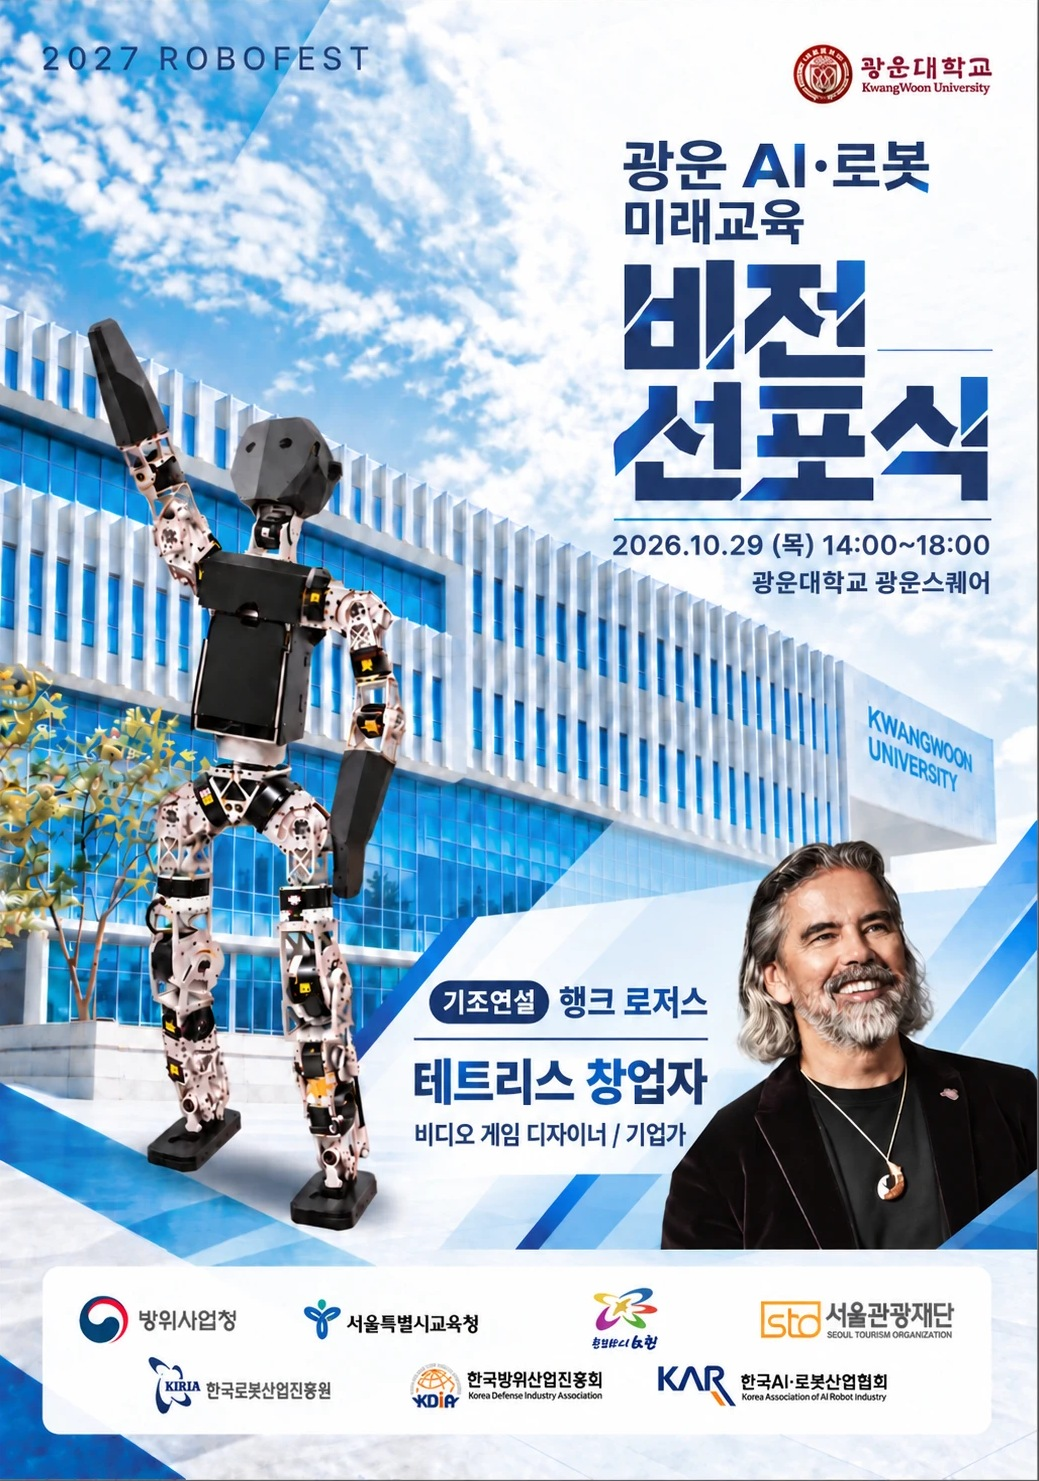
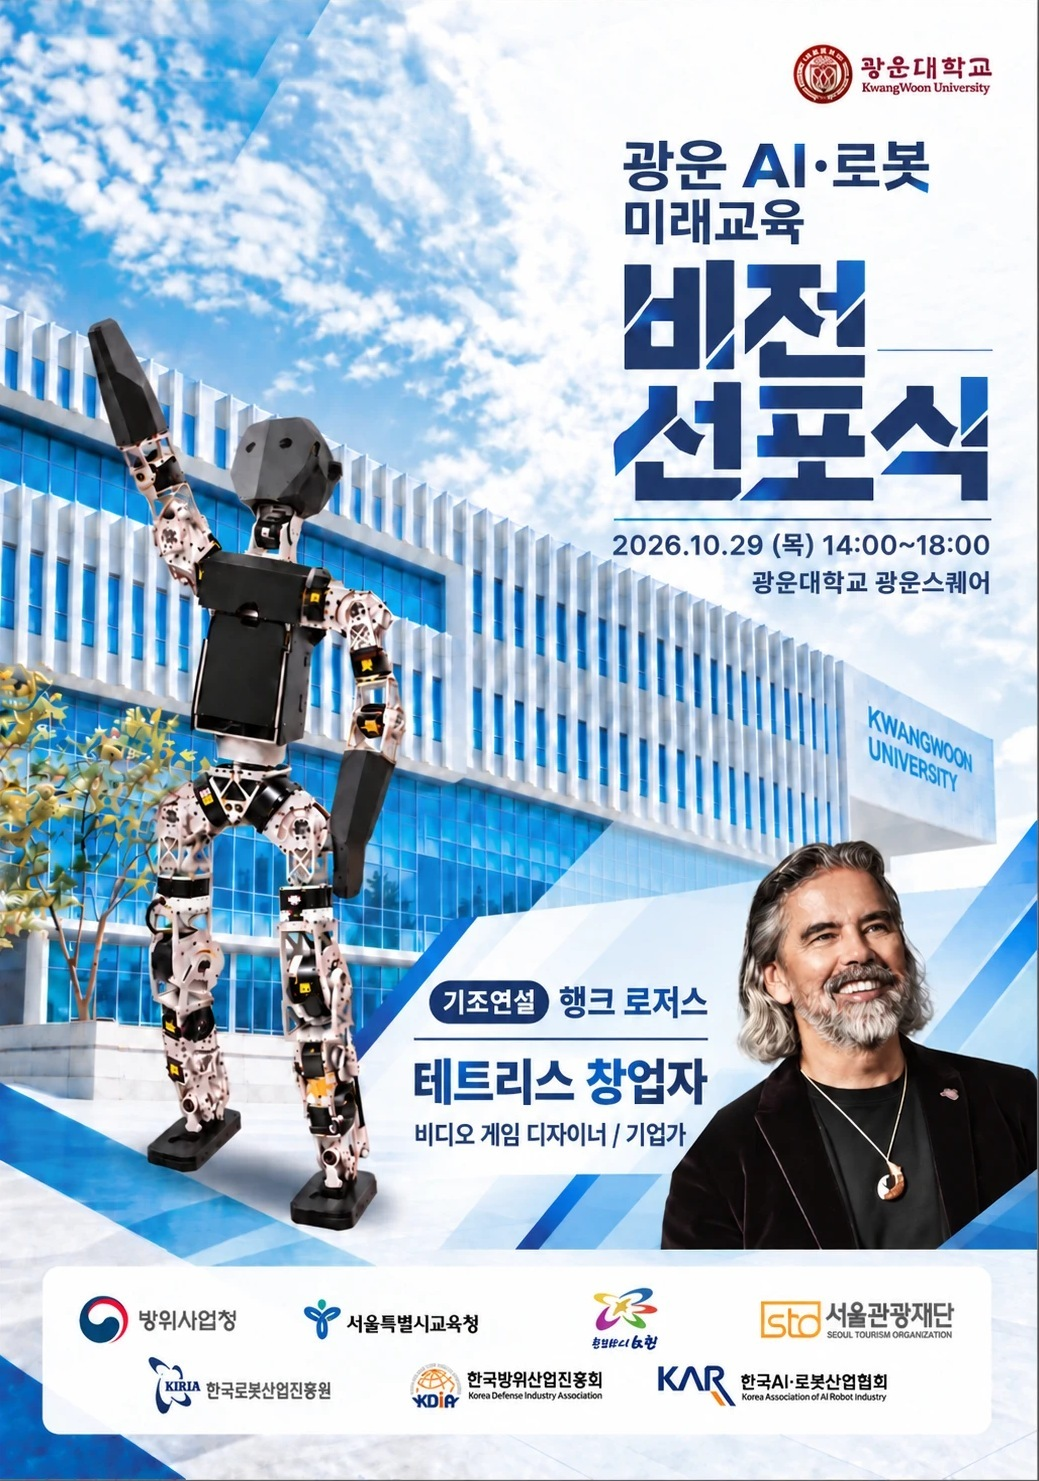
표지: 포스터의 2027 ROBOFEST 원본 글자를 지우고 재조판, 워시 투명하게 / 프레임 굵기 변형

Changed region(s): [[0.0308, 0.0, 0.3696, 0.0621]]

diff --git a/vip/index.html b/vip/index.html
@@ -22,8 +22,8 @@
 
   /* 공통 프레임 (초청장 테두리) */
   .frame{position:relative;margin:44px 18px;padding:60px 22px 52px;background:var(--paper);text-align:center}
-  .frame::before{content:"";position:absolute;inset:0;border:1.5px solid rgba(18,63,148,.62);pointer-events:none}
-  .frame::after{content:"";position:absolute;inset:7px;border:1px solid rgba(18,63,148,.28);pointer-events:none}
+  .frame::before{content:"";position:absolute;inset:0;border:1px solid rgba(18,63,148,.5);pointer-events:none}
+  .frame::after{content:"";position:absolute;inset:6px;border:4px double rgba(18,63,148,.45);pointer-events:none}
   .frame.letter{padding-block:72px 64px}
   .corner{position:absolute;width:56px;height:56px;z-index:1;pointer-events:none}
   .corner.tl{top:0;left:0}
@@ -49,14 +49,13 @@
      높이를 포스터 비율(1039:1483)에 맞춰서 위아래 여백 없이 꽉 맞춘다. */
   .cover{position:relative;width:100%;background:#dce9f7;container-type:inline-size}
   .kv{position:relative;width:100%;aspect-ratio:1039/1483;
-    background:#dce9f7 url(/kv/poster.jpg?v=3) center/100% 100% no-repeat}
+    background:#dce9f7 url(/kv/poster.jpg?v=4) center/100% 100% no-repeat}
   /* 2027 ROBOFEST: 구름에 묻혀서 배경을 옅게 깔고 글자를 다시 올림 */
-  .kv-brand{position:absolute;left:0;top:0;width:62%;height:12%;
-    display:flex;align-items:center;padding:0 0 1.6% 4.2%}
+  .kv-brand{position:absolute;left:0;top:0.5%;width:52%;height:6.6%;
+    display:flex;align-items:center;padding-left:4.2%}
   .kv-brand::before{content:"";position:absolute;inset:0;
-    background:radial-gradient(115% 155% at 10% 42%,
-      rgba(255,255,255,.98) 0 38%,rgba(255,255,255,.90) 55%,
-      rgba(255,255,255,.55) 74%,rgba(255,255,255,0) 100%)}
+    background:radial-gradient(70% 115% at 32% 50%,
+      rgba(255,255,255,.72) 0 30%,rgba(255,255,255,.45) 58%,rgba(255,255,255,0) 100%)}
   .kv-brand span{position:relative;font-size:3.3cqw;line-height:1;font-weight:700}
   .kv-yr{letter-spacing:.05em;
     background:linear-gradient(90deg,#33a0fb,#3d70fa);-webkit-background-clip:text;background-clip:text;color:transparent}

diff --git a/index.html b/index.html
@@ -22,8 +22,8 @@
 
   /* 공통 프레임 (초청장 테두리) */
   .frame{position:relative;margin:44px 18px;padding:60px 22px 52px;background:var(--paper);text-align:center}
-  .frame::before{content:"";position:absolute;inset:0;border:1.5px solid rgba(18,63,148,.62);pointer-events:none}
-  .frame::after{content:"";position:absolute;inset:7px;border:1px solid rgba(18,63,148,.28);pointer-events:none}
+  .frame::before{content:"";position:absolute;inset:0;border:1px solid rgba(18,63,148,.5);pointer-events:none}
+  .frame::after{content:"";position:absolute;inset:6px;border:4px double rgba(18,63,148,.45);pointer-events:none}
   .frame.letter{padding-block:72px 64px}
   .corner{position:absolute;width:56px;height:56px;z-index:1;pointer-events:none}
   .corner.tl{top:0;left:0}
@@ -49,14 +49,13 @@
      높이를 포스터 비율(1039:1483)에 맞춰서 위아래 여백 없이 꽉 맞춘다. */
   .cover{position:relative;width:100%;background:#dce9f7;container-type:inline-size}
   .kv{position:relative;width:100%;aspect-ratio:1039/1483;
-    background:#dce9f7 url(kv/poster.jpg?v=3) center/100% 100% no-repeat}
+    background:#dce9f7 url(kv/poster.jpg?v=4) center/100% 100% no-repeat}
   /* 2027 ROBOFEST: 구름에 묻혀서 배경을 옅게 깔고 글자를 다시 올림 */
-  .kv-brand{position:absolute;left:0;top:0;width:62%;height:12%;
-    display:flex;align-items:center;padding:0 0 1.6% 4.2%}
+  .kv-brand{position:absolute;left:0;top:0.5%;width:52%;height:6.6%;
+    display:flex;align-items:center;padding-left:4.2%}
   .kv-brand::before{content:"";position:absolute;inset:0;
-    background:radial-gradient(115% 155% at 10% 42%,
-      rgba(255,255,255,.98) 0 38%,rgba(255,255,255,.90) 55%,
-      rgba(255,255,255,.55) 74%,rgba(255,255,255,0) 100%)}
+    background:radial-gradient(70% 115% at 32% 50%,
+      rgba(255,255,255,.72) 0 30%,rgba(255,255,255,.45) 58%,rgba(255,255,255,0) 100%)}
   .kv-brand span{position:relative;font-size:3.3cqw;line-height:1;font-weight:700}
   .kv-yr{letter-spacing:.05em;
     background:linear-gradient(90deg,#33a0fb,#3d70fa);-webkit-background-clip:text;background-clip:text;color:transparent}

diff --git a/master.html b/master.html
@@ -22,8 +22,8 @@
 
   /* 공통 프레임 (초청장 테두리) */
   .frame{position:relative;margin:44px 18px;padding:60px 22px 52px;background:var(--paper);text-align:center}
-  .frame::before{content:"";position:absolute;inset:0;border:1.5px solid rgba(18,63,148,.62);pointer-events:none}
-  .frame::after{content:"";position:absolute;inset:7px;border:1px solid rgba(18,63,148,.28);pointer-events:none}
+  .frame::before{content:"";position:absolute;inset:0;border:1px solid rgba(18,63,148,.5);pointer-events:none}
+  .frame::after{content:"";position:absolute;inset:6px;border:4px double rgba(18,63,148,.45);pointer-events:none}
   .frame.letter{padding-block:72px 64px}
   .corner{position:absolute;width:56px;height:56px;z-index:1;pointer-events:none}
   .corner.tl{top:0;left:0}
@@ -49,14 +49,13 @@
      높이를 포스터 비율(1039:1483)에 맞춰서 위아래 여백 없이 꽉 맞춘다. */
   .cover{position:relative;width:100%;background:#dce9f7;container-type:inline-size}
   .kv{position:relative;width:100%;aspect-ratio:1039/1483;
-    background:#dce9f7 url(kv/poster.jpg?v=3) center/100% 100% no-repeat}
+    background:#dce9f7 url(kv/poster.jpg?v=4) center/100% 100% no-repeat}
   /* 2027 ROBOFEST: 구름에 묻혀서 배경을 옅게 깔고 글자를 다시 올림 */
-  .kv-brand{position:absolute;left:0;top:0;width:62%;height:12%;
-    display:flex;align-items:center;padding:0 0 1.6% 4.2%}
+  .kv-brand{position:absolute;left:0;top:0.5%;width:52%;height:6.6%;
+    display:flex;align-items:center;padding-left:4.2%}
   .kv-brand::before{content:"";position:absolute;inset:0;
-    background:radial-gradient(115% 155% at 10% 42%,
-      rgba(255,255,255,.98) 0 38%,rgba(255,255,255,.90) 55%,
-      rgba(255,255,255,.55) 74%,rgba(255,255,255,0) 100%)}
+    background:radial-gradient(70% 115% at 32% 50%,
+      rgba(255,255,255,.72) 0 30%,rgba(255,255,255,.45) 58%,rgba(255,255,255,0) 100%)}
   .kv-brand span{position:relative;font-size:3.3cqw;line-height:1;font-weight:700}
   .kv-yr{letter-spacing:.05em;
     background:linear-gradient(90deg,#33a0fb,#3d70fa);-webkit-background-clip:text;background-clip:text;color:transparent}
